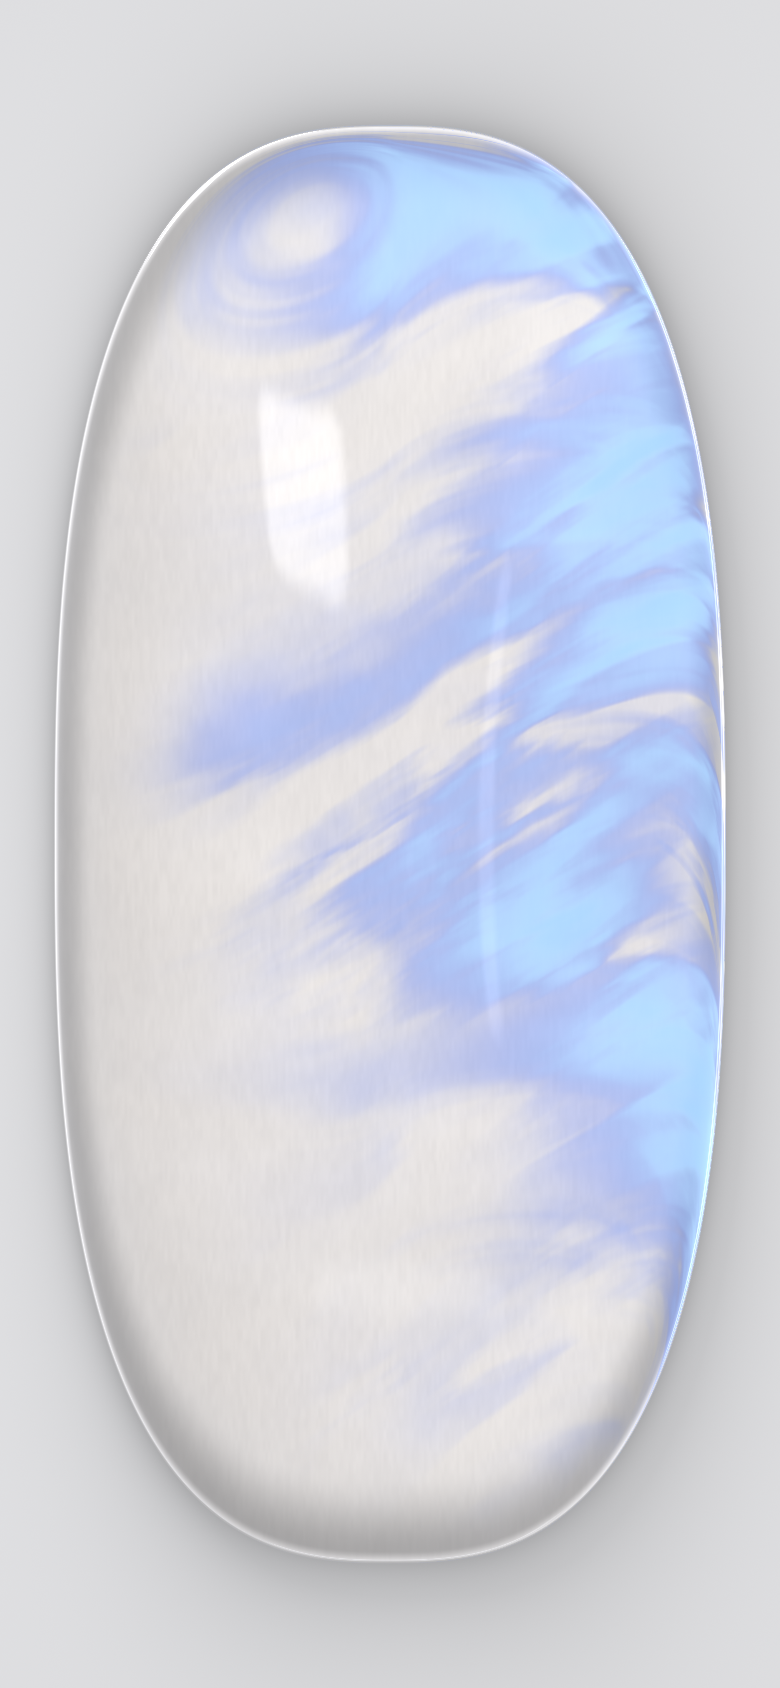
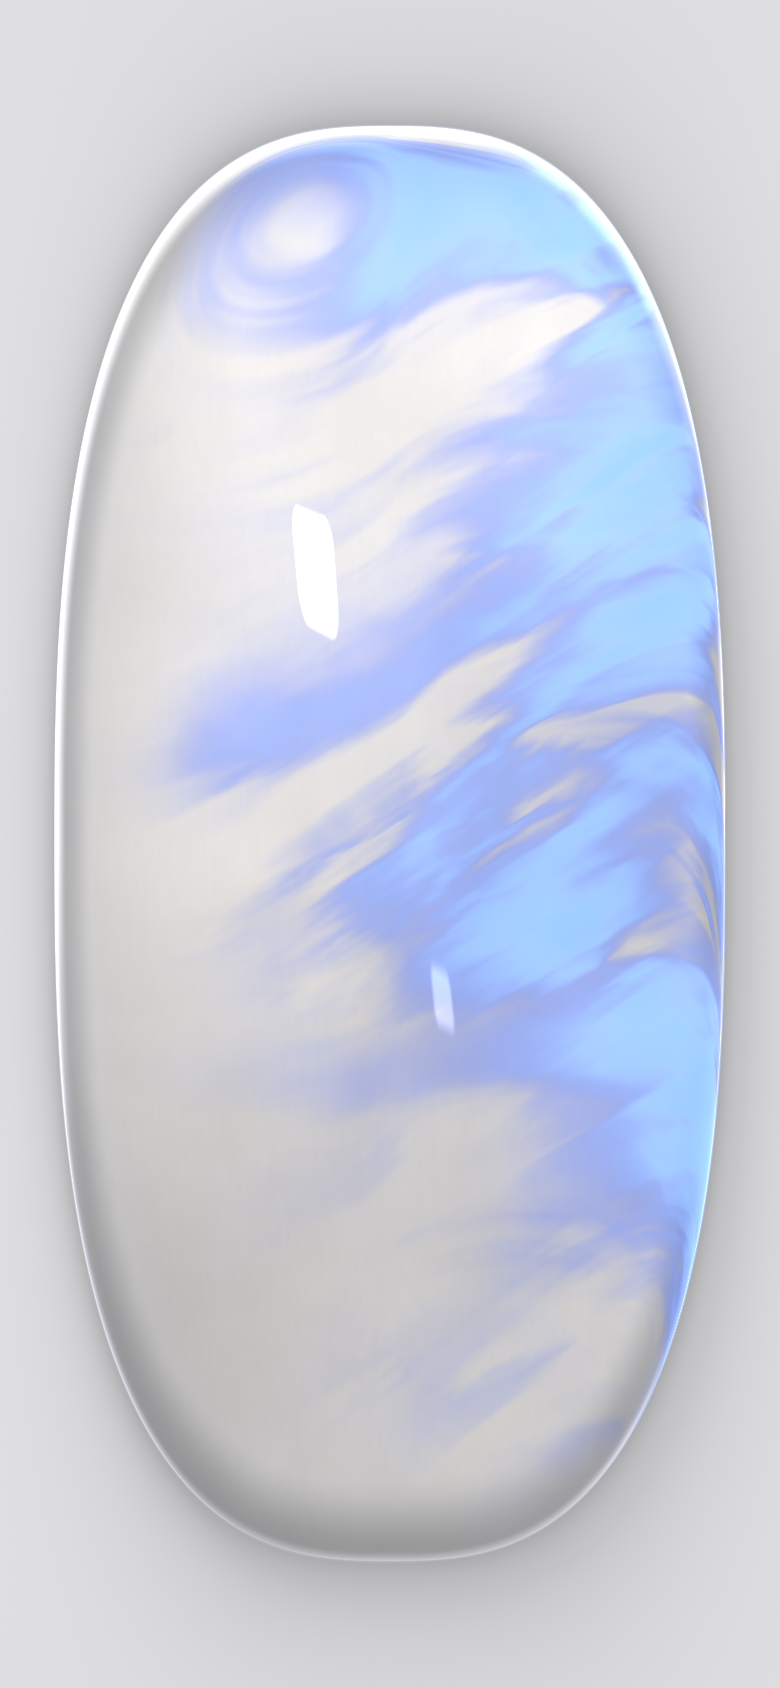
Moonstone cabochon: glossier, crisper reflection, more tonal depth
Claude-Session: https://claude.ai/code/session_01DRAcaZvypgnSaCTMdJvvGx

diff --git a/stone/stone.html b/stone/stone.html
@@ -18,11 +18,13 @@ float rbox(vec2 r,vec2 c,vec2 h,float rad,float soft){
   vec2 q=abs(r-c)-h+rad;float d=length(max(q,0.))+min(max(q.x,q.y),0.)-rad;return 1.-smoothstep(-soft,soft,d);}
 vec3 env(vec3 r){
   float up=clamp(r.y*.5+.5,0.,1.);
-  vec3 c=mix(vec3(.42,.43,.47),vec3(.93,.94,.97),smoothstep(.1,.9,up));
-  c+=vec3(1.)*rbox(r.xy,vec2(-.30,.40),vec2(.20,.13),.06,.025)*1.15;
-  c+=vec3(1.)*rbox(r.xy,vec2(.48,.05),vec2(.035,.22),.03,.02)*.55;
-  c+=vec3(.9,.95,1.)*rbox(r.xy,vec2(.10,-.55),vec2(.30,.04),.03,.03)*.28;
+  vec3 c=mix(vec3(.30,.33,.42),vec3(.86,.90,.98),smoothstep(.15,.85,up));
+  c*=.85+.3*vn(vec3(r.xy*4.,1.));
   return c;}
+float boxes(vec3 r){
+  float b=rbox(r.xy,vec2(-.26,.30),vec2(.10,.075),.04,.008)*.85;
+  b+=rbox(r.xy,vec2(.20,-.16),vec2(.05,.035),.02,.012)*.30;
+  return b;}
 void main(){
   vec2 p=(gl_FragCoord.xy-.5*R)/R.x;            // units of screen width, y up
   vec3 bgc=vec3(.905,.906,.915);
@@ -58,20 +60,23 @@ void main(){
     }
     // fine grain (irregular, low contrast) so the interior reads as crystal not haze
     float grain=vn(vec3(p*vec2(310.,70.),2.))*.5+vn(vec3(p*vec2(160.,38.),7.))*.5;
-    vec3 body=vec3(.90,.88,.865)*(.965+.035*grain);
+    vec3 body=vec3(.925,.905,.885)*(.985+.015*grain);
     body=mix(body,vec3(.80,.80,.82),clamp(cloud,0.,1.)*.38);
-    float dif=clamp(dot(N,Ld)*.7+.45,0.,1.);body*=.74+.24*dif;
+    float dif=clamp(dot(N,Ld)*.7+.45,0.,1.);body*=.61+.34*dif;
+    body*=.88+.14*smoothstep(-.4,.5,(-p.x+p.y)*1.1);
     // thin edge: glassy, takes on the surface colour and a darker total-internal-reflection ring
     float rim=smoothstep(.72,1.,d);
     body=mix(body,bgc*.88,rim*rim*.38);
     body*=1.-.22*smoothstep(.88,.985,d)*(1.-smoothstep(.985,1.,d));
-    float bl=min(1.-exp(-blue*2.0),.92);
-    vec3 deep=vec3(.14,.30,.93),lite=vec3(.58,.78,1.);
+    float bl=min(1.-exp(-blue*2.4),.96);
+    vec3 deep=vec3(.06,.22,.95),lite=vec3(.48,.68,1.);
     vec3 bc=mix(deep,lite,smoothstep(.15,.85,bl));
-    vec3 c=mix(body,bc,bl*.92)+vec3(.95,.97,1.)*silver;
+    vec3 c=mix(body,bc,bl*.90)+bc*bl*.08+vec3(.95,.97,1.)*silver;
     // polished surface
     vec3 r=reflect(-V,N);float F=.045+.955*pow(1.-max(dot(N,V),0.),5.);
-    c+=env(r)*(F*.85+.035)*vec3(.98,.99,1.);
+    c+=env(r)*(F*1.0+.05)*vec3(.98,.99,1.);
+    c+=vec3(1.,1.,1.02)*boxes(r)*(.55+.45*F*6.)*.95;
+    float edgeLit=smoothstep(.965,.995,d)*smoothstep(-.1,.7,(-p.x+p.y)*1.4);c+=vec3(1.)*edgeLit*.30;
     col=mix(col,c,a);
   }
   col+=(hash(vec3(gl_FragCoord.xy,1.))-.5)/255.;
